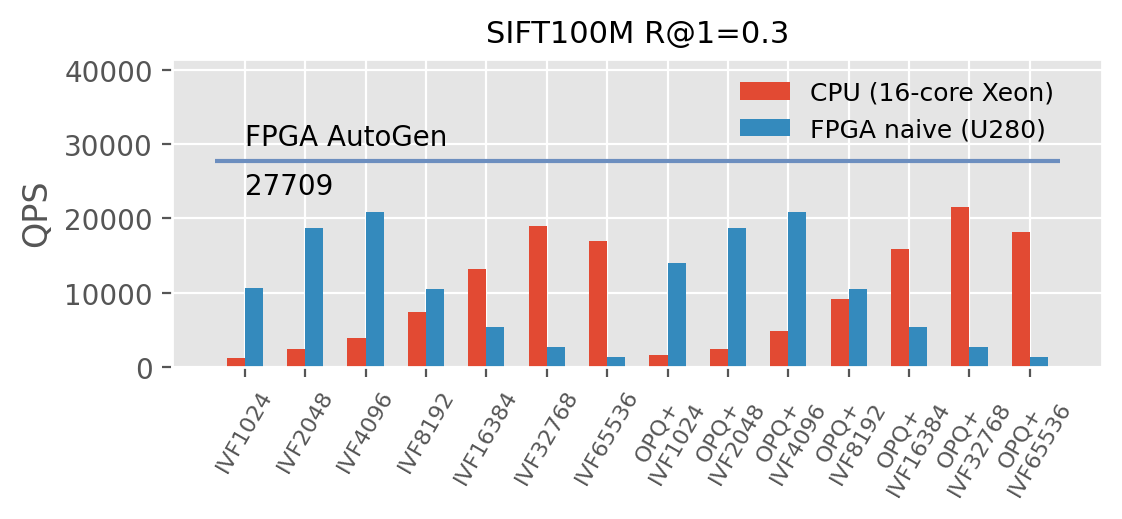
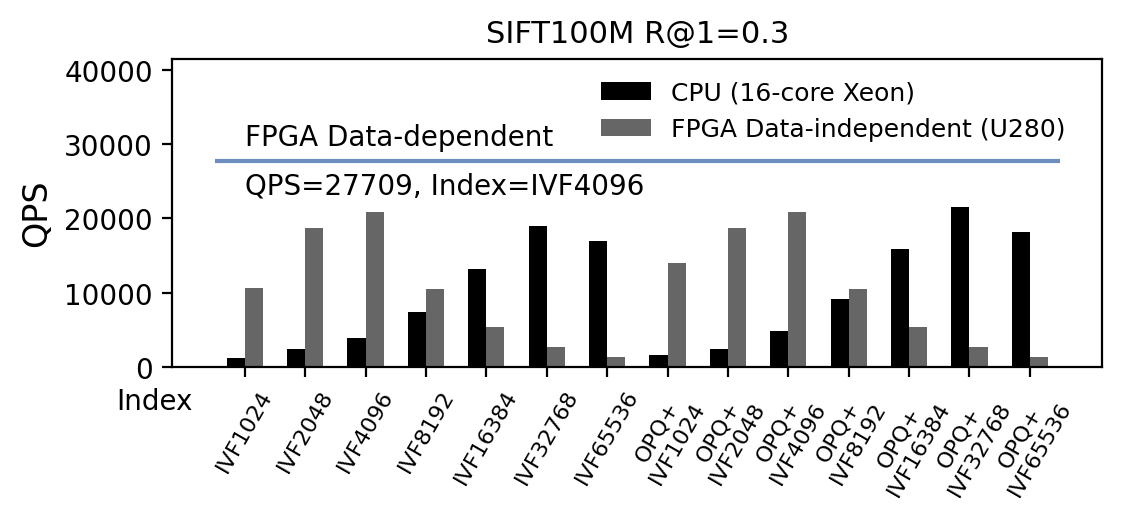
update grayscale

diff --git a/CPU_FPGA_throughput_from_dict.py b/CPU_FPGA_throughput_from_dict.py
@@ -2,9 +2,9 @@
 #   python CPU_GPU_FPGA_throughput_from_dict.py --cpu_performance_dict_dir './cpu_performance_result_m4.4xlarge/cpu_throughput_SIFT100M.pkl' --gpu_performance_dict_dir '../gpu_performance_result_V100_32GB/gpu_throughput_SIFT100M.pkl' --fpga_baseline_performance_dict_dir '../fpga_performance_result/FPGA_perf_dict_SIFT100M.pkl' --dbname SIFT100M --topK 100 --recall_goal 0.95
 
 # Full command list
-#   python CPU_FPGA_throughput_from_dict.py --cpu_performance_dict_dir './cpu_performance_result/cpu_throughput_SIFT100M_qbs_10000_m4.4xlarge.pkl' --fpga_baseline_performance_dict_dir './fpga_performance_result/FPGA_perf_dict_SIFT100M_K_1.pkl' --dbname SIFT100M --topK 1 --recall_goal 0.3 --legend_loc_x 0.6
-#   python CPU_FPGA_throughput_from_dict.py --cpu_performance_dict_dir './cpu_performance_result/cpu_throughput_SIFT100M_qbs_10000_m4.4xlarge.pkl' --fpga_baseline_performance_dict_dir './fpga_performance_result/FPGA_perf_dict_SIFT100M_K_10.pkl' --dbname SIFT100M --topK 10 --recall_goal 0.8 --legend_loc_x 0.6
-#   python CPU_FPGA_throughput_from_dict.py --cpu_performance_dict_dir './cpu_performance_result/cpu_throughput_SIFT100M_qbs_10000_m4.4xlarge.pkl' --fpga_baseline_performance_dict_dir './fpga_performance_result/FPGA_perf_dict_SIFT100M_K_100.pkl' --dbname SIFT100M --topK 100 --recall_goal 0.95 --legend_loc_x 0.6
+#   python CPU_FPGA_throughput_from_dict.py --cpu_performance_dict_dir './cpu_performance_result/cpu_throughput_SIFT100M_qbs_10000_m4.4xlarge.pkl' --fpga_baseline_performance_dict_dir './fpga_performance_result/FPGA_perf_dict_SIFT100M_K_1.pkl' --dbname SIFT100M --topK 1 --recall_goal 0.3 --legend_loc_x 0.45
+#   python CPU_FPGA_throughput_from_dict.py --cpu_performance_dict_dir './cpu_performance_result/cpu_throughput_SIFT100M_qbs_10000_m4.4xlarge.pkl' --fpga_baseline_performance_dict_dir './fpga_performance_result/FPGA_perf_dict_SIFT100M_K_10.pkl' --dbname SIFT100M --topK 10 --recall_goal 0.8 --legend_loc_x 0.45
+#   python CPU_FPGA_throughput_from_dict.py --cpu_performance_dict_dir './cpu_performance_result/cpu_throughput_SIFT100M_qbs_10000_m4.4xlarge.pkl' --fpga_baseline_performance_dict_dir './fpga_performance_result/FPGA_perf_dict_SIFT100M_K_100.pkl' --dbname SIFT100M --topK 100 --recall_goal 0.95 --legend_loc_x 0.45
 
 # Run with python 3.9 if the following error occurs
 # WenqideMacBook-Pro@~/Works/ANNS-FPGA/python_figures wenqi$python CPU_GPU_FPGA_throughput_from_dict.py 
@@ -18,7 +18,7 @@ import matplotlib.pyplot as plt
 import numpy as np
 import pickle
 
-plt.style.use('ggplot')
+plt.style.use('grayscale')
 
 import argparse 
 parser = argparse.ArgumentParser()
@@ -156,28 +156,28 @@ rects_fpga = ax.bar(x + width / 2, y_fpga, width)#, label='Women')
 optimized_FPGA_throughput = None
 if args.dbname == 'SIFT100M' and args.topK == 1 and args.recall_goal == 0.25:
     optimized_FPGA_throughput = 31033
-    ax.text(0, optimized_FPGA_throughput * 1.05, 'FPGA AutoGen', fontsize=10, horizontalalignment='left', verticalalignment='bottom')
-    ax.text(0, optimized_FPGA_throughput * 0.95, str(optimized_FPGA_throughput), fontsize=10, horizontalalignment='left', verticalalignment='top')
+    ax.text(0, optimized_FPGA_throughput * 1.05, 'FPGA Data-dependent', fontsize=10, horizontalalignment='left', verticalalignment='bottom')
+    ax.text(0, optimized_FPGA_throughput * 0.95, 'QPS={}, Index={}'.format(optimized_FPGA_throughput, 'IVF1024'), fontsize=10, horizontalalignment='left', verticalalignment='top')
     ax.hlines(y=optimized_FPGA_throughput, xmin=-0.5, xmax=13.5, linestyles='solid', color='#6C8EBF')
 if args.dbname == 'SIFT100M' and args.topK == 1 and args.recall_goal == 0.3:
     optimized_FPGA_throughput = 27709 # 126 MHz
-    ax.text(0, optimized_FPGA_throughput * 1.05, 'FPGA AutoGen', fontsize=10, horizontalalignment='left', verticalalignment='bottom')
-    ax.text(0, optimized_FPGA_throughput * 0.95, str(optimized_FPGA_throughput), fontsize=10, horizontalalignment='left', verticalalignment='top')
+    ax.text(0, optimized_FPGA_throughput * 1.05, 'FPGA Data-dependent', fontsize=10, horizontalalignment='left', verticalalignment='bottom')
+    ax.text(0, optimized_FPGA_throughput * 0.95, 'QPS={}, Index={}'.format(optimized_FPGA_throughput, 'IVF4096'), fontsize=10, horizontalalignment='left', verticalalignment='top')
     ax.hlines(y=optimized_FPGA_throughput, xmin=-0.5, xmax=13.5, linestyles='solid', color='#6C8EBF')
 elif args.dbname == 'SIFT100M' and args.topK == 10 and args.recall_goal == 0.6:
     optimized_FPGA_throughput = 30965
-    ax.text(0, optimized_FPGA_throughput * 1.05, 'FPGA AutoGen', fontsize=10, horizontalalignment='left', verticalalignment='bottom')
-    ax.text(0, optimized_FPGA_throughput * 0.95, str(optimized_FPGA_throughput), fontsize=10, horizontalalignment='left', verticalalignment='top')
+    ax.text(0, optimized_FPGA_throughput * 1.05, 'FPGA Data-dependent', fontsize=10, horizontalalignment='left', verticalalignment='bottom')
+    ax.text(0, optimized_FPGA_throughput * 0.95, 'QPS={}, Index={}'.format(optimized_FPGA_throughput, 'IVF4096'), fontsize=10, horizontalalignment='left', verticalalignment='top')
     ax.hlines(y=optimized_FPGA_throughput, xmin=-0.5, xmax=13.5, linestyles='solid', color='#6C8EBF')
 elif args.dbname == 'SIFT100M' and args.topK == 10 and args.recall_goal == 0.8:
     optimized_FPGA_throughput = 11035
-    ax.text(0, optimized_FPGA_throughput * 1.05, 'FPGA AutoGen', fontsize=10, horizontalalignment='left', verticalalignment='bottom')
-    ax.text(0, optimized_FPGA_throughput * 0.95, str(optimized_FPGA_throughput), fontsize=10, horizontalalignment='left', verticalalignment='top')
+    ax.text(0, optimized_FPGA_throughput * 1.05, 'FPGA Data-dependent', fontsize=10, horizontalalignment='left', verticalalignment='bottom')
+    ax.text(0, optimized_FPGA_throughput * 0.95, 'QPS={}, Index={}'.format(optimized_FPGA_throughput, 'OPQ16,IVF8192'), fontsize=10, horizontalalignment='left', verticalalignment='top')
     ax.hlines(y=optimized_FPGA_throughput, xmin=-0.5, xmax=13.5, linestyles='solid', color='#6C8EBF')
 elif args.dbname == 'SIFT100M' and args.topK == 100 and args.recall_goal == 0.95:
     optimized_FPGA_throughput = 3519
-    ax.text(0, optimized_FPGA_throughput * 1.05, 'FPGA AutoGen', fontsize=10, horizontalalignment='left', verticalalignment='bottom')
-    ax.text(0, optimized_FPGA_throughput * 0.95, str(optimized_FPGA_throughput), fontsize=10, horizontalalignment='left', verticalalignment='top')
+    ax.text(0, optimized_FPGA_throughput * 1.05, 'FPGA Data-dependent', fontsize=10, horizontalalignment='left', verticalalignment='bottom')
+    ax.text(0, optimized_FPGA_throughput * 0.95, 'QPS={}, Index={}'.format(optimized_FPGA_throughput, 'OPQ16,IVF16384'), fontsize=10, horizontalalignment='left', verticalalignment='top')
     ax.hlines(y=optimized_FPGA_throughput, xmin=-0.5, xmax=13.5, linestyles='solid', color='#6C8EBF')
 
 best_qps_cpu = np.amax(y_cpu)
@@ -198,7 +198,8 @@ ax.set_xticklabels(x_labels, fontsize=tick_label_font)
 plt.xticks(rotation=60)
 
 
-legend_list = ["CPU (16-core Xeon)", "FPGA naive (U280)"]
+
+legend_list = ["CPU (16-core Xeon)", "FPGA Data-independent (U280)"]
 # legend_list = ["CPU (16-core Xeon)", "FPGA baseline (U280)"]
 ax.legend([rects_cpu, rects_fpga], legend_list, facecolor='white', framealpha=1, frameon=False, loc=(args.legend_loc_x, 0.7), fontsize=legend_font, ncol=1)
 
@@ -225,8 +226,14 @@ best_qps = np.amax([best_qps_fpga, best_qps_cpu])
 if optimized_FPGA_throughput:
     best_qps = np.max([best_qps, optimized_FPGA_throughput])
 ax.set(ylim=[0, best_qps * 1.5])
+ax.text(-1.5, -0.1 * best_qps, 'Index', fontsize=10, horizontalalignment='center', verticalalignment='top')
 
 plt.rcParams.update({'figure.autolayout': True})
+
+for i, y in enumerate(y_cpu):
+    if y == 0:
+        ax.text(i, 0.1, 'cannot reach\nR@{}={}'.format(topK, recall_goal), fontsize=8, horizontalalignment='right', verticalalignment='bottom', rotation=90)
+
 
 plt.savefig('./CPU_FPGA_throughput_comparison_fig/CPU_FPGA_throughput_comparison_{dbname}_R@{topK}={recall}.png'.format(dbname=dbname,topK=topK,recall=int(recall_goal*100)), transparent=False, dpi=200, bbox_inches="tight")
 plt.show()

diff --git a/resource_consumption.py b/resource_consumption.py
@@ -57,7 +57,7 @@ def draw_resource_consumption_plot(
     for y in y_all:
         assert np.isclose(y, 100)
 
-    plt.style.use('ggplot')
+    plt.style.use('grayscale')
 
 
     x = np.arange(len(x_labels))  # the label locations
@@ -73,12 +73,12 @@ def draw_resource_consumption_plot(
     bottom_stage_5 = y_stage_4 + bottom_stage_4
     bottom_stage_6 = y_stage_5 + bottom_stage_5
 
-    rects_stage1 = ax.bar(x, y_stage_1, width, bottom=bottom_stage_1)
-    rects_stage2 = ax.bar(x, y_stage_2, width, bottom=bottom_stage_2)
-    rects_stage3 = ax.bar(x, y_stage_3, width, bottom=bottom_stage_3)
-    rects_stage4 = ax.bar(x, y_stage_4, width, bottom=bottom_stage_4)
-    rects_stage5 = ax.bar(x, y_stage_5, width, bottom=bottom_stage_5)
-    rects_stage6 = ax.bar(x, y_stage_6, width, bottom=bottom_stage_6)
+    rects_stage1 = ax.bar(x, y_stage_1, width, bottom=bottom_stage_1, color='#000000')
+    rects_stage2 = ax.bar(x, y_stage_2, width, bottom=bottom_stage_2, color='#222222')
+    rects_stage3 = ax.bar(x, y_stage_3, width, bottom=bottom_stage_3, color='#555555')
+    rects_stage4 = ax.bar(x, y_stage_4, width, bottom=bottom_stage_4, color='#888888')
+    rects_stage5 = ax.bar(x, y_stage_5, width, bottom=bottom_stage_5, color='#AAAAAA')
+    rects_stage6 = ax.bar(x, y_stage_6, width, bottom=bottom_stage_6, color='#CCCCCC')
 
 
 
@@ -96,12 +96,12 @@ def draw_resource_consumption_plot(
 
 
     ax.legend([rects_stage1, rects_stage2, rects_stage3, rects_stage4, rects_stage5, rects_stage6], 
-        ["Stage 1: OPQ", "Stage 2: vector quantizer", "Stage 3: select centroids", \
-        "Stage 4: construct distance LUT", "Stage 5: scan PQ codes", "Stage 6: collect topK results"], loc=(0.0, 1.05), ncol=2, \
+        ["Stage OPQ", "Stage IVFDist", "Stage SelCells", \
+        "Stage BuildLUT", "Stage PQDist", "Stage SelK"], loc=(0.0, 1.05), ncol=3, \
         facecolor='white', framealpha=1, frameon=False, fontsize=legend_font)
 
 
-    def number_single_bar(rects, bottom, annotate_threshold=20):
+    def number_single_bar(rects, bottom, annotate_threshold=20, color='black'):
         """Attach a text label above each bar in *rects*, displaying its height."""
         for i, rect in enumerate(rects):
             height = rect.get_height()
@@ -110,17 +110,17 @@ def draw_resource_consumption_plot(
                             xy=(rect.get_x() + rect.get_width() / 2, height + bottom[i]),
                             xytext=(0, -20),  # 3 points vertical offset
                             textcoords="offset points",
-                            ha='center', va='bottom', fontsize=tick_font)
+                            ha='center', va='bottom', fontsize=tick_font, color=color)
 
 
-    number_single_bar(rects_stage1, bottom_stage_1, annotate_threshold=20)
-    number_single_bar(rects_stage2, bottom_stage_2, annotate_threshold=20)
-    number_single_bar(rects_stage3, bottom_stage_3, annotate_threshold=20)
-    number_single_bar(rects_stage4, bottom_stage_4, annotate_threshold=20)
-    number_single_bar(rects_stage5, bottom_stage_5, annotate_threshold=20)
-    number_single_bar(rects_stage6, bottom_stage_6, annotate_threshold=20)
+    number_single_bar(rects_stage1, bottom_stage_1, annotate_threshold=20, color='white')
+    number_single_bar(rects_stage2, bottom_stage_2, annotate_threshold=20, color='white')
+    number_single_bar(rects_stage3, bottom_stage_3, annotate_threshold=20, color='black')
+    number_single_bar(rects_stage4, bottom_stage_4, annotate_threshold=20, color='black')
+    number_single_bar(rects_stage5, bottom_stage_5, annotate_threshold=20, color='black')
+    number_single_bar(rects_stage6, bottom_stage_6, annotate_threshold=20, color='black')
 
-    ax.set_title(title, fontsize=title_font, y=1.45)
+    ax.set_title(title, fontsize=title_font, y=1.35)
 
     ax.set(ylim=[0, 100])
     plt.xticks(rotation=x_tick_rotation)

diff --git a/CPU_GPU_FPGA_max_throughput_normalize.py b/CPU_GPU_FPGA_max_throughput_normalize.py
@@ -13,11 +13,11 @@ import matplotlib
 import matplotlib.pyplot as plt
 import numpy as np
 import pickle
-plt.style.use('ggplot')
+plt.style.use('grayscale')
 
 import argparse 
 parser = argparse.ArgumentParser()
-parser.add_argument('--legend_loc_x', type=float, default=0.3, help="the x position of legend, 0~1")
+parser.add_argument('--legend_loc_x', type=float, default=0.5, help="the x position of legend, 0~1")
 
 
 args = parser.parse_args()
@@ -183,9 +183,12 @@ elif recall_goal_R10 == 0.8:
 if recall_goal_R100 == 0.95:
     max_qps_fpga_optimized_R100 = 3519
 
-CPU_FLOPS = 64 * 16 # 64 G per core * 16 core
+CPU_FLOPS = 32 * 16 * 2.3 # broadwell 32 op per cycle per core * 16 core * 2.3 GHz
 GPU_FLOPS = 14 * 1000
-FPGA_FLOPS = 3000 * (200 * 1e6) * 0.6 / 1e9 # 9000 DSP -> 3000 per cycle * 200 MHz * 60\%
+FPGA_FLOPS = 9024 / 5 * 2 * (200 * 1e6) * 0.6 / 1e9 
+# 9024 DSP 
+# 5 DSP per MAC (2 op) 
+# -> 4500 per cycle * 200 MHz * 60\%
 
 y_cpu = np.array([max_qps_cpu_R1, max_qps_cpu_R10, max_qps_cpu_R100]) / CPU_FLOPS
 y_fpga = np.array([max_qps_fpga_R1, max_qps_fpga_R10, max_qps_fpga_R100]) / FPGA_FLOPS
@@ -210,21 +213,21 @@ rects_fpga = ax.bar(x + 0.5 * width, y_fpga, width)#, label='Women')
 rects_fpga_optimized = ax.bar(x + 1.5 * width, y_fpga_optimized, width)#, label='Women')
 
 
-label_font = 12
+label_font = 8
 tick_font = 10
 tick_label_font = 10
 legend_font = 8
 title_font = 11
 
 # Add some text for labels, title and custom x-axis tick labels, etc.
-ax.set_ylabel('QPS Per GFlop/s', fontsize=label_font)
+ax.set_ylabel('QPS Per Peak Gflop/s', fontsize=label_font)
 ax.set_xticks(x)
 ax.set_xticklabels(x_labels)
 plt.xticks(rotation=0)
 
 
-legend_list = ["CPU (16-core Xeon)", "GPU (V100)", "FPGA baseline (U280)", "FPGA autoGen (U280)"]
-ax.legend([rects_cpu, rects_gpu, rects_fpga, rects_fpga_optimized], legend_list, facecolor='white', framealpha=1, frameon=False, loc=(args.legend_loc_x, 0.6), fontsize=legend_font, ncol=2)
+legend_list = ["CPU (16-core Xeon)", "GPU (V100)", "FPGA Data-independent (U280)", "FPGA Data-dependent (U280)"]
+ax.legend([rects_cpu, rects_gpu, rects_fpga, rects_fpga_optimized], legend_list, facecolor='white', framealpha=1, frameon=False, loc=(args.legend_loc_x, 0.4), fontsize=legend_font, ncol=1)
 
 # ax.set_title('{} R@{}={}: {:.2f}x over CPU, {:.2f}x over GPU'.format(
 #     dbname, topK, int(recall_goal*100), best_qps_fpga/best_qps_cpu, best_qps_fpga/best_qps_gpu), 
@@ -242,10 +245,10 @@ def autolabel(rects):
                     ha='center', va='bottom', fontsize=tick_font, horizontalalignment='left', rotation=90)
 
 
-autolabel(rects_cpu)
-autolabel(rects_gpu)
-autolabel(rects_fpga)
-autolabel(rects_fpga_optimized)
+# autolabel(rects_cpu)
+# autolabel(rects_gpu)
+# autolabel(rects_fpga)
+# autolabel(rects_fpga_optimized)
 
 best_qps = np.amax([np.amax(y_gpu), np.amax(y_fpga), np.amax(y_fpga_optimized), np.amax(y_cpu)])
 ax.set(ylim=[0, best_qps * 1.25])

diff --git a/HNSW_performance.py b/HNSW_performance.py
@@ -1,7 +1,7 @@
 import matplotlib.pyplot as plt
 import matplotlib
 
-plt.style.use('ggplot')
+plt.style.use('grayscale')
 
 import numpy as np
 
@@ -20,8 +20,8 @@ x_CPU = np.array([0, 0.2, 0.4, 0.6, 0.8, 1.0]) + 0.4 + x_FPGA[-1]
 
 ########### TODO: Performance of FPGA (2, 4, 8 banks) using ef=128 #############
 ########### TODO: Performance of CPU (1~32 threads) using m4.4xlarge #############
-throughput_FPGA = np.array([0.6, 0.8, 1]) * 1e5 # 2, 4, 8 banks
-throughput_CPU= np.array([0.45, 0.72, 1.25, 1.99, 2.32, 2.3]) * 1e5# 1, 2, 4, 8, 16, 32 threads
+throughput_FPGA = np.array([4483, 6356, 10000])  # 2, 4, 8 banks
+throughput_CPU= np.array([0.45, 0.72, 1.25, 1.99, 2.32, 2.3]) * 1e4# 1, 2, 4, 8, 16, 32 threads
 
 max_perf = np.maximum(np.max(throughput_FPGA), np.max(throughput_CPU))
 
@@ -45,7 +45,7 @@ ax.text(np.average(x_FPGA), -0.2 * max_perf, 'FPGA (different bank numbers)',
         rotation='horizontal',
         fontsize=tick_label_font)
 
-ax.text(np.average(x_CPU), -0.2 * max_perf, 'CPU (different thread numbers)',
+ax.text(np.average(x_CPU), -0.2 * max_perf, 'CPU (16 channels, different thread numbers)',
         horizontalalignment='center',
         verticalalignment='top',
         rotation='horizontal',

diff --git a/CPU_GPU_FPGA_max_throughput_comparison.py b/CPU_GPU_FPGA_max_throughput_comparison.py
@@ -215,7 +215,7 @@ ax.set_xticklabels(x_labels)
 plt.xticks(rotation=0)
 
 
-legend_list = ["CPU (16-core Xeon)", "FPGA baseline (U280)", "FPGA autoGen (U280)", "GPU (V100)"]
+legend_list = ["CPU (16-core Xeon)", "FPGA Data-independent (U280)", "FPGA Data-dependent (U280)", "GPU (V100)"]
 ax.legend([rects_cpu, rects_fpga, rects_fpga_optimized, rects_gpu], legend_list, facecolor='white', framealpha=1, frameon=False, loc=(args.legend_loc_x, 0.7), fontsize=legend_font, ncol=2)
 
 # ax.set_title('{} R@{}={}: {:.2f}x over CPU, {:.2f}x over GPU'.format(
